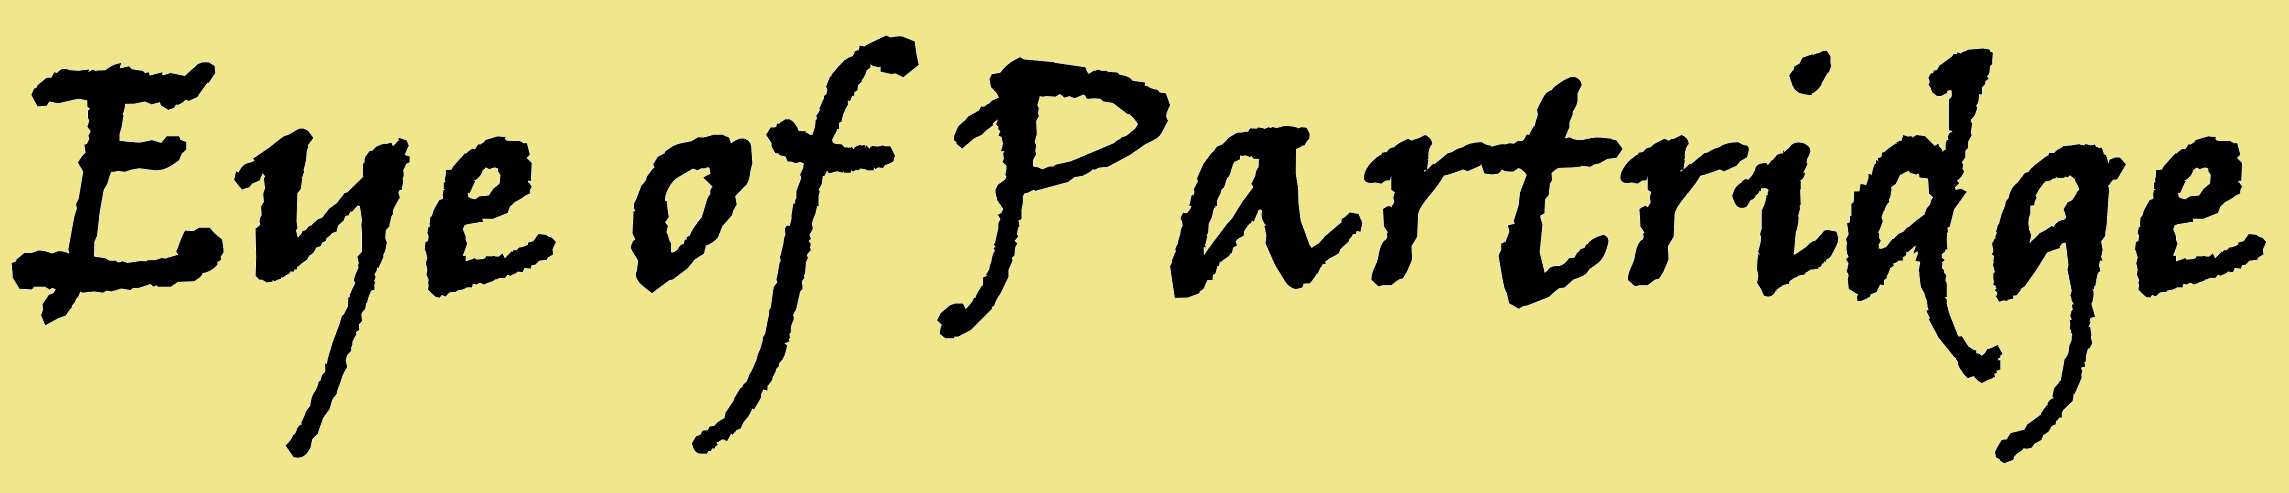
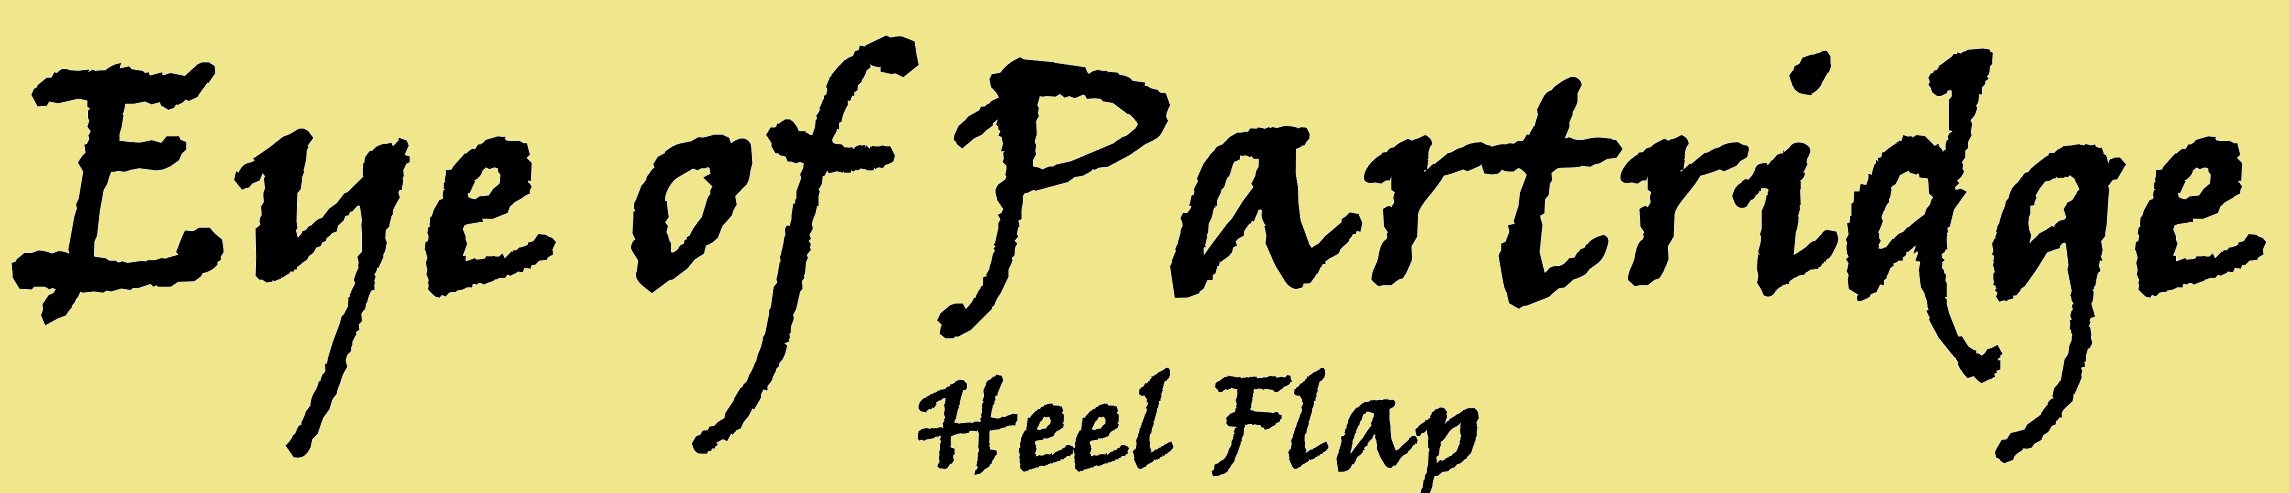
Initial version complete

Changed region(s): [[0.4032, 0.7606, 0.6514, 1.0]]

diff --git a/about.html b/about.html
@@ -37,14 +37,15 @@
 
 			<div class="alert alert-primary" role="alert">
 				<h4 class="alert-heading">About Stitch Kit</h4>
-				<p><i>Stitch Kit</i> provides a few knitting patterns and caches them locally so that they can be accessed quickly and when offline.</p>
+				<p><i>Stitch Kit</i> provides a few knitting techniques and caches them locally so that they can be accessed quickly and when offline.</p>
 			</div>
 		</div>
 		<hr>
 		<footer>
 			<div class='small text-muted'>
-				Copyright &copy; 2019 <a class='text-muted' title='https://ensadi.com' href='https://ensadi.com' target='_blank'>Ensadi LLC
+				Copyright &copy; 2019 <a class='text-muted' title='https://ensadi.com' href='https://ensadi.com' target='_blank'>Ensadi LLC</a>
 				<!-- <div>App icons made by <a class='text-muted' href="https://www.flaticon.com/authors/freepik" title="Freepik">Freepik</a> from <a class='text-muted' href="https://www.flaticon.com/" title="Flaticon">www.flaticon.com</a> and licensed by <a class='text-muted' href="http://creativecommons.org/licenses/by/3.0/" title="Creative Commons BY 3.0" target="_blank">CC 3.0 BY</a></div> -->
+				<div>Application icon provided by T. J. Madi &copy; 2019. Used with permission.</div>
 				<div>Arrow icons provided by <a class='text-muted' href="https://fontawesome.com/license" title="Font Awesome">Font Awesome</a></div>
 			</div>
 		</footer>

diff --git a/index.html b/index.html
@@ -80,6 +80,19 @@
 					<a class='text-muted' href="/about.html">(About)</a>
 			</div>
 		</footer>
+		<script>
+			// make sure that the browser supports Service Workers and register if so.
+			if ('serviceWorker' in navigator) {
+				navigator.serviceWorker.register('/stws.js').then( function(reg) { 
+					// registration successful
+					console.log('Registration successful.');
+					console.log('Scope: ', reg.scope);
+				}).catch(function(error) {
+					// failed
+					console.log('Registration failed: ', error);
+				});
+			}
+		</script>
 	</body>
 </html>
 

diff --git a/eyeofpartridge.html b/eyeofpartridge.html
@@ -22,7 +22,6 @@
 			<div class='container-fluid'>
 				<div class='container'>
 					<img src="/eyeofpartridge.png" class="img-fluid">
-					<center><h1 class="display-3">Heel Flap</h1></center>
 				</div>
 			</div>
 		</header>

diff --git a/README.md b/README.md
@@ -1,9 +1,9 @@
 # Stitch Kit
 A tiny progressive web app for a little knitting help.
 
-_Stitch Kit_ provides a few knitting patterns and caches them locally so that they can be accessed quickly and when offline.
+_Stitch Kit_ provides a few knitting techniques and caches them locally so that they can be accessed quickly and when offline.
 
-The provided patterns are:
+The provided techniques are:
 
 * Cables
 * Eye of Partridge
